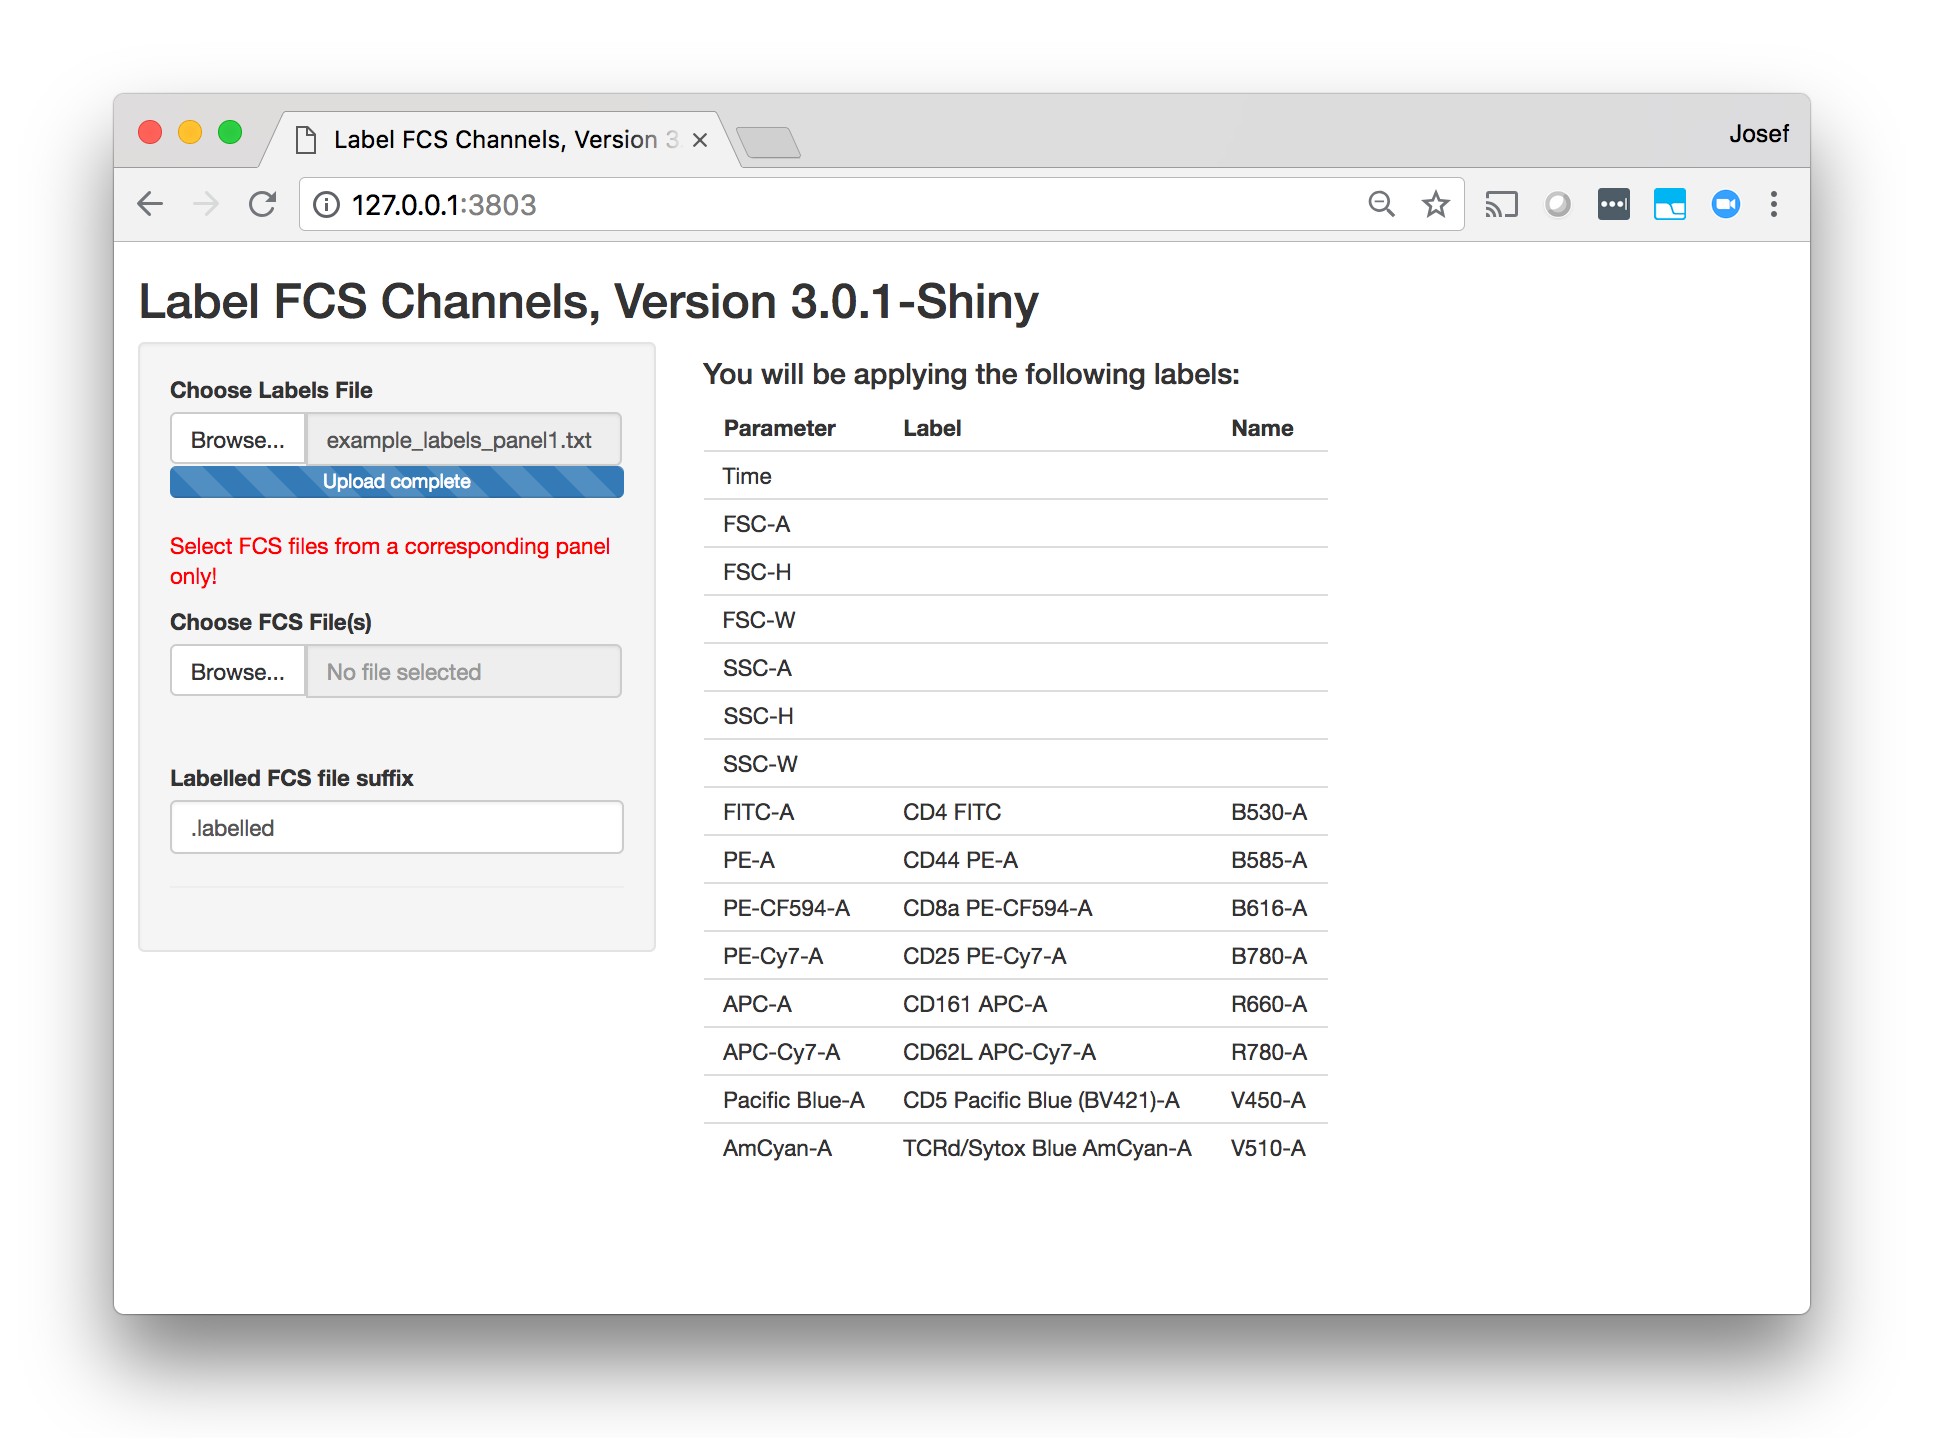
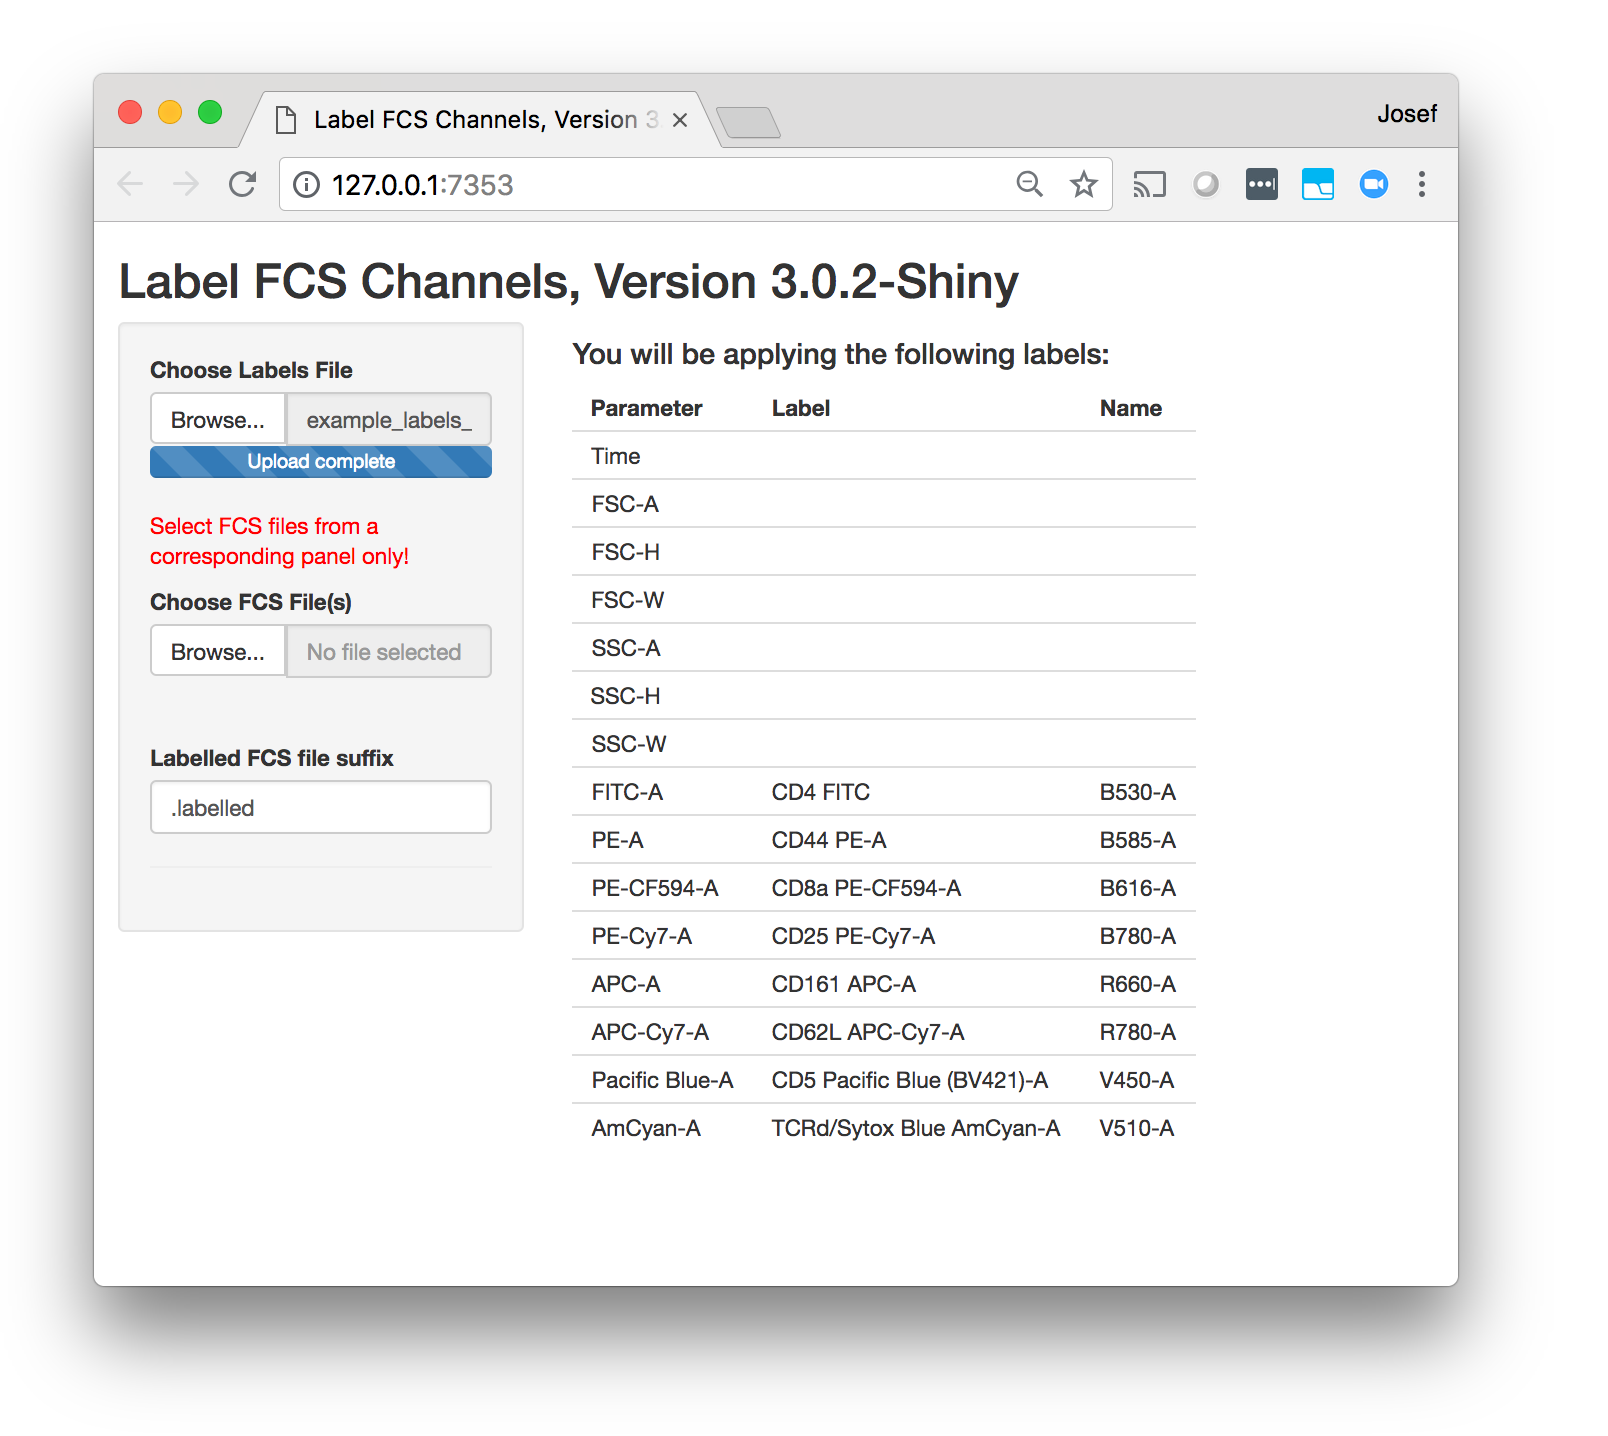
Version 3.0.2 to add compatibility with flowCore 1.46.0 and newer.

Changed region(s): [[0.0622, 0.0306, 0.9639, 0.9805], [0.0933, 0.5209, 0.2488, 0.5822], [0.2799, 0.5515, 0.3109, 0.5822]]

diff --git a/README.md b/README.md
@@ -1,6 +1,4 @@
-# Label FCS Channels Version 3.0.1
-
-**Compatibility note** Version 3.0.1 of this tool is not compatible with the flowCore 1.46.0 and newer package. This will be resolved soon in a version 3.0.2. Please use flowCore 1.44.2 or older.
+# Label FCS Channels Version 3.0.2
 
 The *Label FCS Channels* tool allows you to label channels (parameters) in an FCS 2.0, FCS 3.0 or FCS 3.1 list mode data file. Labelling means adding or rewriting the values of parameter names, i.e., values of the $PnS and $PnN FCS keywords ([see FCS format](http://www.ncbi.nlm.nih.gov/pubmed/19937951)) based on externally supplied labels and names. Rewriting $PnN keyword values is a new functionality that has been added in version 3.0 of this tool. Labels and names are provided in text file templates (see below). This tool is intended to be used post-acquisition to standardize the FCS channel description of IMPC acquired flow cytometry data, but can be applied on other FCS data files as well.
 
@@ -15,7 +13,8 @@ These instructions will get you a copy of the project up and running on your loc
 
 ### Prerequisites
 
-This tools requires *R 3.2.0* and the *flowCore* library, version 1.34.0. Other versions of R and flowCore may also work but have not been tested. In addition, the web-based version of the tool requires the *shiny* library (tested with version 0.12.1), and the non-web-based version of the tool requires the *svDialogs* library (tested with version 0.9-57) if used in an interactive mode (see Usage below).
+This tools requires *R 3.2.0* and the *flowCore* library, version 1.34.0. Other versions of R and flowCore may also work but have not been tested. In addition, the web-based version of the tool requires the *shiny* library (tested with version 0.12.1), and the non-web-based version of the tool requires the *svDialogs* library (tested with version 0.9-57) if used in an interactive mode (see Usage below). Version 3.0.1 of this tool is not compatible with the flowCore 1.46.0 and newer package; this has been resolved in a version 3.0.2.
+
 
 ### Installation
 
@@ -112,9 +111,9 @@ Even if you use all 3 columns, the values and/or new names for particular parame
 ## Troubleshooting
 
 ### Compatibility Notes
-Version 3.0.1 of this tool is not compatible with the flowCore 1.46.0 and newer package. This will be resolved soon in a version 3.0.2. Please use flowCore 1.44.2 or older.
-
 The Label FCS Channels tool is compatible with Linux, (Mac) OS X and Windows. The web-based version requires the presence of an an external ZIP tool on your command path. A compatible zip tool is “guaranteed” to be present in Linux, OS X and newer versions of Windows. If you have some older Windows (such as Windows XP), a zip tool may or may not be present. If it is not, you may have to install it first before being able to run the web-based version of this tool.
+
+Version 3.0.1 of this tool is not compatible with the flowCore 1.46.0 and newer package. This has been resolved in version 3.0.2.
 
 ### Path to the Tool
 
